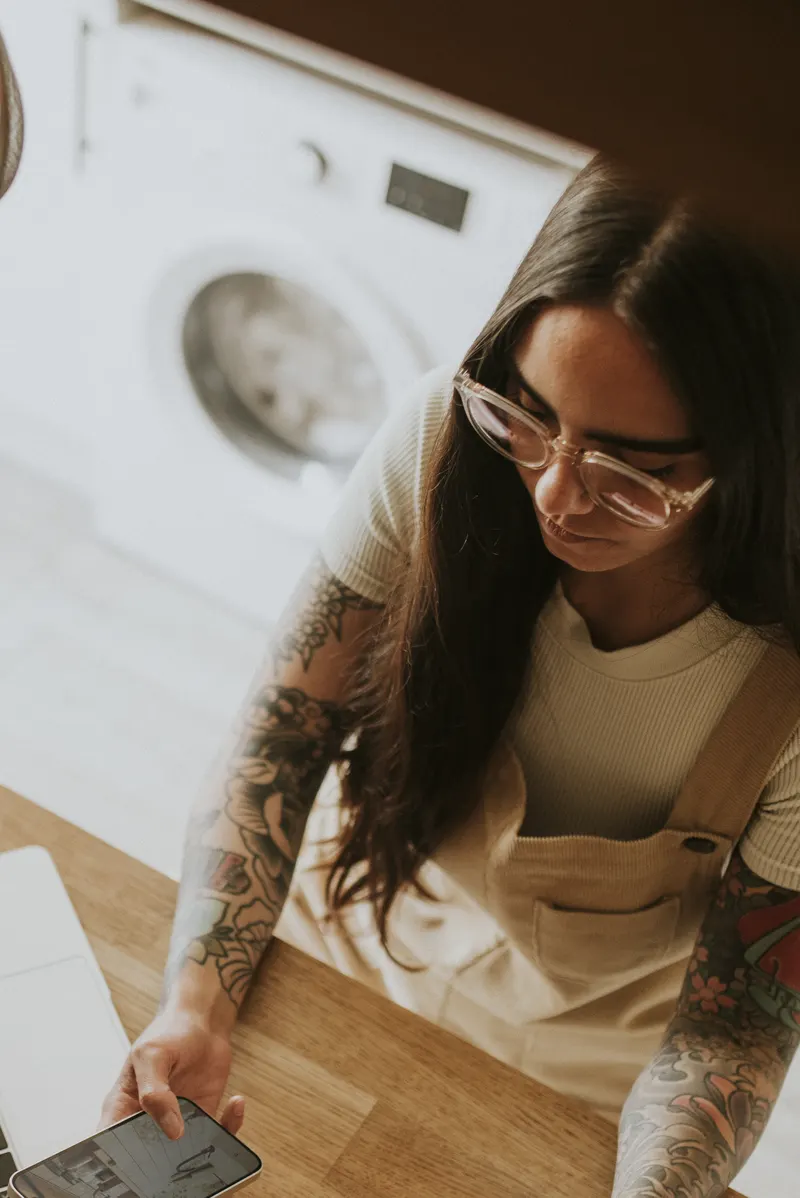
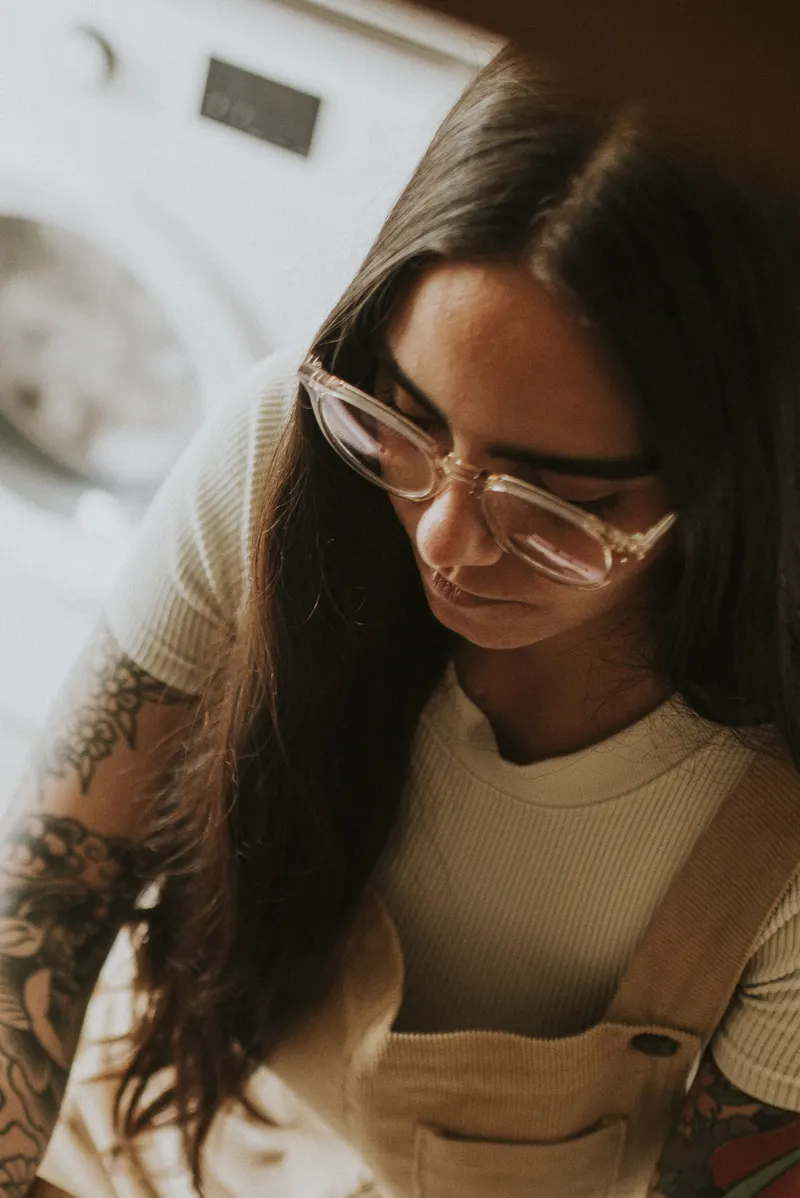
solutions templates pages: agencies right hero photo is the carpenter on a call with a client (Gary), cropped to him and the laptop; the small business right photo is cropped tighter so she fills the frame instead of the empty washer corner (Gary).

diff --git a/marketing/solutions/ai-for-small-business-templates/index.html b/marketing/solutions/ai-for-small-business-templates/index.html
@@ -3546,7 +3546,7 @@ html[data-hv="c"] .hero-collage--templates .hero-collage-col:nth-child(3) .hero-
 }
 </style>
 <style id="sol-left-photo">@media (max-width: 768px) { .hero-collage--templates .hero-collage-col:nth-child(1) .hero-uc-img { object-position: 100% 0% !important; transform: translateX(calc(var(--hc-h) * -0.06)); } }</style>
-<style id="sol-right-photo">@media (max-width: 768px) { .hero-collage--templates .hero-collage-col:nth-child(3) .hero-uc-img { object-position: 100% 18% !important; transform: none; } }</style>
+<style id="sol-right-photo">@media (max-width: 768px) { .hero-collage--templates .hero-collage-col:nth-child(3) .hero-uc-img { object-position: 65% 18% !important; transform: none; } }</style>
 </head>
 <body>
 
@@ -3787,7 +3787,7 @@ html[data-hv="c"] .hero-collage--templates .hero-collage-col:nth-child(3) .hero-
         </div>
         <div class="hero-collage-col">
         <figure class="hero-uc-card sc-on-dark">
-          <img class="hero-uc-img" src="../../images/people/smb-tattoo.webp" alt="A shop owner checking orders on her phone at the kitchen counter" style="object-position:100% 22%" loading="eager" decoding="async">
+          <img class="hero-uc-img" src="../../images/people/smb-tattoo.webp" alt="A shop owner checking orders on her phone at the kitchen counter" style="object-position:70% 22%" loading="eager" decoding="async">
           <canvas class="hero-uc-canvas" id="hero-collage-c3" aria-hidden="true"></canvas>
         </figure>
         </div>

diff --git a/marketing/solutions/ai-for-agencies-templates/index.html b/marketing/solutions/ai-for-agencies-templates/index.html
@@ -3786,7 +3786,7 @@ html[data-hv="c"] .hero-collage--templates .hero-collage-col:nth-child(3) .hero-
         </div>
         <div class="hero-collage-col">
         <figure class="hero-uc-card sc-on-dark">
-          <img class="hero-uc-img" src="../../images/people/agencies-right.webp" alt="An agency lead holding a laptop" style="object-position:50% 15%" loading="eager" decoding="async">
+          <img class="hero-uc-img" src="../../images/people/agencies-carpenter.webp" alt="A maker at his bench on a call with a client" style="object-position:50% 15%" loading="eager" decoding="async">
           <canvas class="hero-uc-canvas" id="hero-collage-c3" aria-hidden="true"></canvas>
         </figure>
         </div>

diff --git a/tools/build-solution-template-pages.py b/tools/build-solution-template-pages.py
@@ -25,8 +25,8 @@ PAGES = {
     audience='small businesses',
     left_y='0%', left_shift='0.06',
     # phones: her face is at the photo's right edge, so the right photo keeps 100% (the real estate rule shows its left side)
-    extra_css='\n<style id="sol-right-photo">@media (max-width: 768px) { .hero-collage--templates .hero-collage-col:nth-child(3) .hero-uc-img { object-position: 100% 18% !important; transform: none; } }</style>',   # phones: his face sits high and right in the photo, under the Orders tile at 30%
-    photos=[('smb-left', 'A café owner smiling behind the counter', '50% 30%'), ('smb-tattoo', 'A shop owner checking orders on her phone at the kitchen counter', '100% 22%')],
+    extra_css='\n<style id="sol-right-photo">@media (max-width: 768px) { .hero-collage--templates .hero-collage-col:nth-child(3) .hero-uc-img { object-position: 65% 18% !important; transform: none; } }</style>',   # phones: his face sits high and right in the photo, under the Orders tile at 30%
+    photos=[('smb-left', 'A café owner smiling behind the counter', '50% 30%'), ('smb-tattoo', 'A shop owner checking orders on her phone at the kitchen counter', '70% 22%')],
     deck_label='Three small business sites built with Bolt: a coffee subscription shop, a pilates studio and a café point of sale',
     deck=[('sol-ember', 0.5, 'Build a coffee subscription site where customers pick a roast, grind and delivery cadence, with a shop for one-off bags.'),
           ('sol-pilates', 0.5, 'Make a website for my pilates studio with the class schedule, instructor bios, pricing and online booking.'),
@@ -97,7 +97,7 @@ PAGES = {
     ]),
   'ai-for-agencies': dict(
     audience='agencies',
-    photos=[('agencies-left', 'Two agency designers reviewing work together', '50% 30%'), ('agencies-right', 'An agency lead holding a laptop', '50% 15%')],
+    photos=[('agencies-left', 'Two agency designers reviewing work together', '50% 30%'), ('agencies-carpenter', 'A maker at his bench on a call with a client', '50% 15%')],
     deck_label='Three client projects built with Bolt: a creative agency site, a fashion store and a content calendar',
     deck=[('sol-kern', 0.5, 'Build a site for our creative studio with a bold type-led hero, selected work and a services page.'),
           ('sol-ashcombe', 0.5, 'Make an online store for a heritage clothing brand with collections, a gift finder and seasonal sales.'),
